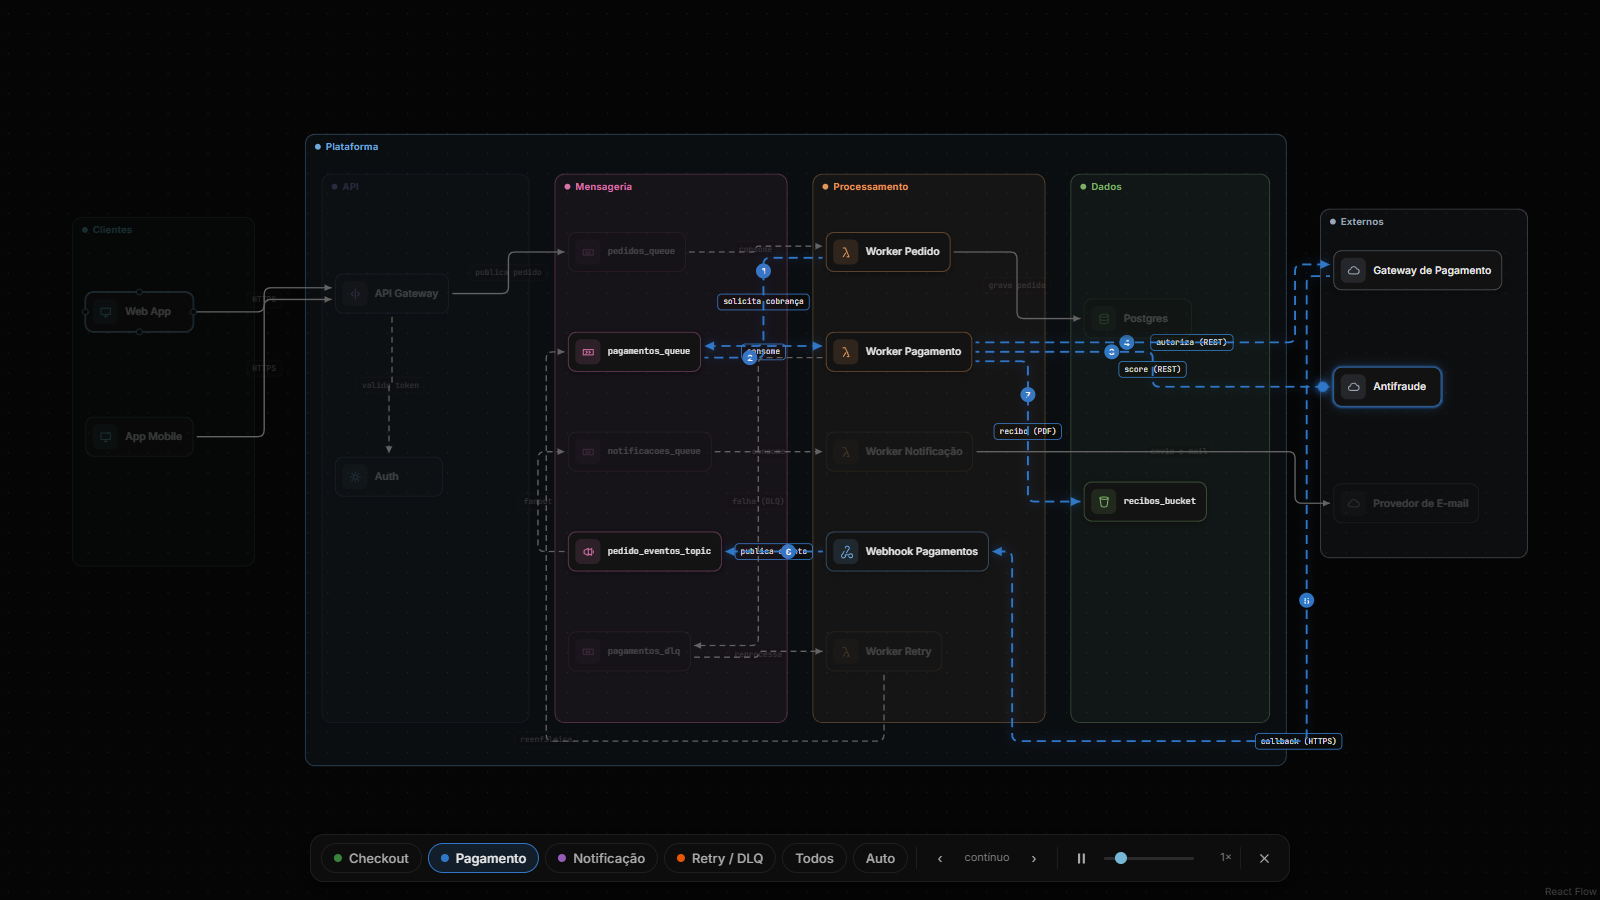
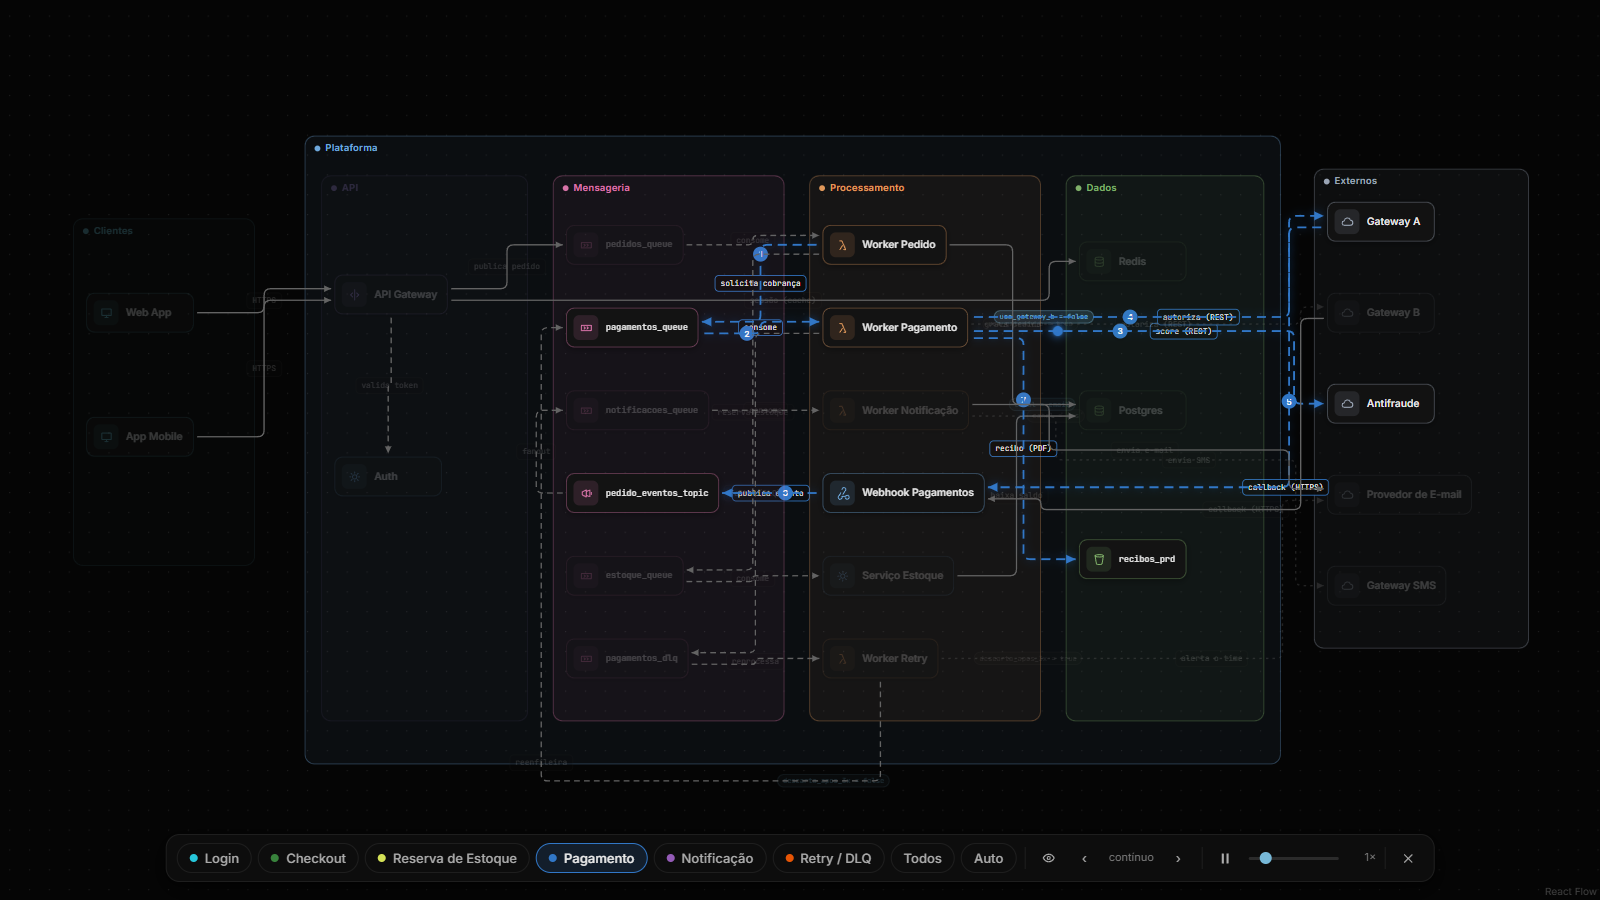
Exemplo enriquecido: 6 fluxos, 3 decisões por config e 4 cenários
Plataforma de Pedidos agora demonstra todos os recursos de fábrica:

- Novos nós: Redis (cache de sessão, hop com peso 0.5), Serviço Estoque +
  estoque_queue, Gateway SMS
- Novos fluxos: Login (com cache rápido) e Reserva de Estoque
- Três decisões por config: Pagamento (Gateway A/B por flag buscada do
  Postgres), Notificação (e-mail/SMS por enum local — demonstra condição
  de texto) e Retry (reenfileira/descarta+alerta)
- 4 cenários prontos: Padrão, Contingência (Gateway A fora), Notificação
  por SMS e Black Friday (troca variáveis, canal e política de DLQ)
- Rótulo interpolado no canvas: bucket recibos_{{ambiente}}
- Mais notas de hop, transformações, payloads antes/depois e fichas
  técnicas para o Inspetor de Pacote

Verificado por amostragem: zero arestas cruzando nós; variantes trocam ao
aplicar cenários; cascata do Web App cobre 22 arestas em 12 fases com
consulta de config. Regressões completas verdes. Storage key → v6.

diff --git a/src/model/seed.ts b/src/model/seed.ts
@@ -3,12 +3,14 @@ import type { Doc } from './yaml'
 /**
  * Diagrama de exemplo — fictício, só para demonstrar a ferramenta.
  *
- * Uma plataforma de pedidos genérica: clientes entram pela API, os pedidos
- * viram mensagens, workers processam e falam com serviços externos. Exercita
- * tudo que o ArchFlow faz: raias aninhadas, dobras manuais, fluxos animados,
- * modo automático (clique num nó para disparar o evento), config de nó com
- * arestas condicionais (Worker Pagamento decide o gateway por flag "buscada"
- * do Postgres), variáveis {{interpoladas}}, inspetor de pacote e cenários.
+ * Uma plataforma de pedidos genérica que exercita TODOS os recursos:
+ * - raias aninhadas, dobras manuais, pesos de aresta (Redis rápido, antifraude lento)
+ * - fluxos com VARIANTES por condição: Pagamento (gateway A/B por flag buscada do
+ *   Postgres), Notificação (e-mail/SMS por enum local), Retry (reenfileira/descarta)
+ * - variáveis {{interpoladas}} em rótulos e payloads (ex.: recibos_{{ambiente}})
+ * - inspetor de pacote (transformações, payload antes/depois, notas de hop)
+ * - cenários prontos, incluindo falha (Gateway A fora) e Black Friday
+ * - modo automático: clicar no Web App cascateia o sistema inteiro
  */
 export function seedDoc(): Doc {
   return {
@@ -17,6 +19,7 @@ export function seedDoc(): Doc {
     variables: {
       pedido: '#1042',
       ambiente: 'prd',
+      cliente: 'ACME Ltda',
     },
     groups: [
       { id: 'g_clientes', label: 'Clientes', color: '#5fb8c9', pos: { x: 40, y: 160 }, size: { w: 220, h: 420 } },
@@ -25,11 +28,11 @@ export function seedDoc(): Doc {
       { id: 'g_msg', label: 'Mensageria', color: '#d873a8', parent: 'g_plataforma', pos: { x: 300, y: 48 }, size: { w: 280, h: 660 } },
       { id: 'g_proc', label: 'Processamento', color: '#e0985a', parent: 'g_plataforma', pos: { x: 610, y: 48 }, size: { w: 280, h: 660 } },
       { id: 'g_dados', label: 'Dados', color: '#7fb069', parent: 'g_plataforma', pos: { x: 920, y: 48 }, size: { w: 240, h: 660 } },
-      { id: 'g_externos', label: 'Externos', color: '#9aa5b5', pos: { x: 1540, y: 100 }, size: { w: 260, h: 560 } },
+      { id: 'g_externos', label: 'Externos', color: '#9aa5b5', pos: { x: 1540, y: 100 }, size: { w: 260, h: 580 } },
     ],
     nodes: [
       { id: 'web_app', label: 'Web App', type: 'client', group: 'g_clientes', pos: { x: 16, y: 90 }, tech: 'React + Vite', owner: 'time web' },
-      { id: 'mobile_app', label: 'App Mobile', type: 'client', group: 'g_clientes', pos: { x: 16, y: 240 } },
+      { id: 'mobile_app', label: 'App Mobile', type: 'client', group: 'g_clientes', pos: { x: 16, y: 240 }, tech: 'React Native' },
 
       {
         id: 'api_gw',
@@ -39,107 +42,157 @@ export function seedDoc(): Doc {
         pos: { x: 16, y: 120 },
         transform: 'Autentica, valida o schema e publica o pedido na fila',
         payloadBefore: 'POST /pedidos\n{"itens": 3, "total": 189.90}',
-        payloadAfter: '{"pedido": "{{pedido}}", "itens": 3,\n "total": 189.90, "ts": "…"}',
+        payloadAfter: '{"pedido": "{{pedido}}", "cliente": "{{cliente}}",\n "itens": 3, "total": 189.90, "ts": "…"}',
         tech: 'Kong',
         owner: 'plataforma',
       },
-      { id: 'auth', label: 'Auth', type: 'service', group: 'g_api', pos: { x: 16, y: 340 }, transform: 'Valida o token JWT e devolve os escopos' },
+      {
+        id: 'auth',
+        label: 'Auth',
+        type: 'service',
+        group: 'g_api',
+        pos: { x: 16, y: 340 },
+        transform: 'Valida o token JWT e devolve os escopos',
+        tech: 'Keycloak',
+      },
 
-      { id: 'q_pedidos', label: 'pedidos_queue', type: 'queue', icon: 'sqs', group: 'g_msg', pos: { x: 16, y: 70 } },
-      { id: 'q_pagamentos', label: 'pagamentos_queue', type: 'queue', icon: 'sqs', group: 'g_msg', pos: { x: 16, y: 190 } },
-      { id: 'q_notificacoes', label: 'notificacoes_queue', type: 'queue', icon: 'sqs', group: 'g_msg', pos: { x: 16, y: 310 } },
-      { id: 'topic_eventos', label: 'pedido_eventos_topic', type: 'queue', icon: 'sns', group: 'g_msg', pos: { x: 16, y: 430 } },
-      { id: 'q_dlq', label: 'pagamentos_dlq', type: 'queue', icon: 'sqs', group: 'g_msg', pos: { x: 16, y: 550 } },
+      { id: 'q_pedidos', label: 'pedidos_queue', type: 'queue', icon: 'sqs', group: 'g_msg', pos: { x: 16, y: 60 } },
+      { id: 'q_pagamentos', label: 'pagamentos_queue', type: 'queue', icon: 'sqs', group: 'g_msg', pos: { x: 16, y: 160 } },
+      { id: 'q_notificacoes', label: 'notificacoes_queue', type: 'queue', icon: 'sqs', group: 'g_msg', pos: { x: 16, y: 260 } },
+      { id: 'topic_eventos', label: 'pedido_eventos_topic', type: 'queue', icon: 'sns', group: 'g_msg', pos: { x: 16, y: 360 } },
+      { id: 'q_estoque', label: 'estoque_queue', type: 'queue', icon: 'sqs', group: 'g_msg', pos: { x: 16, y: 460 } },
+      { id: 'q_dlq', label: 'pagamentos_dlq', type: 'queue', icon: 'sqs', group: 'g_msg', pos: { x: 16, y: 560 } },
 
       {
         id: 'w_pedido',
         label: 'Worker Pedido',
         type: 'function',
         group: 'g_proc',
-        pos: { x: 16, y: 70 },
-        transform: 'Grava o pedido {{pedido}} e solicita a cobrança',
+        pos: { x: 16, y: 60 },
+        transform: 'Grava o pedido {{pedido}}, reserva estoque e solicita cobrança',
       },
       {
         id: 'w_pagamento',
         label: 'Worker Pagamento',
         type: 'function',
         group: 'g_proc',
-        pos: { x: 16, y: 190 },
-        transform: 'Consulta a config, escolhe o gateway e autoriza a cobrança',
+        pos: { x: 16, y: 160 },
+        transform: 'Consulta a config no Postgres, escolhe o gateway e autoriza',
         vars: { usa_gateway_b: { value: false, source: 'db' } },
         tech: 'Node 22',
         owner: 'time de pagamentos',
       },
-      { id: 'w_notificacao', label: 'Worker Notificação', type: 'function', group: 'g_proc', pos: { x: 16, y: 310 }, transform: 'Monta o e-mail de confirmação do pedido {{pedido}}' },
-      { id: 'webhook', label: 'Webhook Pagamentos', type: 'service', icon: 'webhook', group: 'g_proc', pos: { x: 16, y: 430 }, transform: 'Recebe o callback do gateway e publica o evento' },
-      { id: 'w_retry', label: 'Worker Retry', type: 'function', group: 'g_proc', pos: { x: 16, y: 550 }, transform: 'Reprocessa cobranças que falharam' },
+      {
+        id: 'w_notificacao',
+        label: 'Worker Notificação',
+        type: 'function',
+        group: 'g_proc',
+        pos: { x: 16, y: 260 },
+        transform: 'Monta a mensagem do pedido {{pedido}} e envia pelo canal configurado',
+        vars: { canal: { value: 'email' } },
+        payloadBefore: '{"evento": "pagamento_aprovado",\n "pedido": "{{pedido}}"}',
+        payloadAfter: '{"para": "{{cliente}}", "canal": "email|sms",\n "template": "pedido_confirmado"}',
+      },
+      {
+        id: 'webhook',
+        label: 'Webhook Pagamentos',
+        type: 'service',
+        icon: 'webhook',
+        group: 'g_proc',
+        pos: { x: 16, y: 360 },
+        transform: 'Recebe o callback do gateway e publica o evento',
+      },
+      {
+        id: 'svc_estoque',
+        label: 'Serviço Estoque',
+        type: 'service',
+        group: 'g_proc',
+        pos: { x: 16, y: 460 },
+        transform: 'Reserva os itens e dá baixa no saldo',
+        owner: 'time de logística',
+      },
+      {
+        id: 'w_retry',
+        label: 'Worker Retry',
+        type: 'function',
+        group: 'g_proc',
+        pos: { x: 16, y: 560 },
+        transform: 'Decide entre reenfileirar a cobrança ou descartar e alertar',
+        vars: { descarta_apos_3x: { value: false } },
+      },
 
-      { id: 'db', label: 'Postgres', type: 'storage', group: 'g_dados', pos: { x: 16, y: 150 }, tech: 'RDS', transform: 'Guarda pedidos e a config de pagamentos' },
-      { id: 'bucket', label: 'recibos_bucket', type: 'storage', icon: 's3', group: 'g_dados', pos: { x: 16, y: 370 } },
+      { id: 'redis', label: 'Redis', type: 'storage', group: 'g_dados', pos: { x: 16, y: 80 }, tech: 'ElastiCache', transform: 'Cache de sessões e catálogo' },
+      { id: 'db', label: 'Postgres', type: 'storage', group: 'g_dados', pos: { x: 16, y: 260 }, tech: 'RDS', transform: 'Pedidos, estoque e a config de pagamentos' },
+      { id: 'bucket', label: 'recibos_{{ambiente}}', type: 'storage', icon: 's3', group: 'g_dados', pos: { x: 16, y: 440 } },
 
-      { id: 'pay_gateway', label: 'Gateway A', type: 'external', group: 'g_externos', pos: { x: 16, y: 50 }, tech: 'REST' },
-      { id: 'pay_gateway_b', label: 'Gateway B', type: 'external', group: 'g_externos', pos: { x: 16, y: 170 }, tech: 'REST' },
-      { id: 'antifraude', label: 'Antifraude', type: 'external', group: 'g_externos', pos: { x: 16, y: 290 } },
-      { id: 'email', label: 'Provedor de E-mail', type: 'external', group: 'g_externos', pos: { x: 16, y: 410 } },
+      { id: 'pay_gateway', label: 'Gateway A', type: 'external', group: 'g_externos', pos: { x: 16, y: 40 }, tech: 'REST' },
+      { id: 'pay_gateway_b', label: 'Gateway B', type: 'external', group: 'g_externos', pos: { x: 16, y: 150 }, tech: 'REST' },
+      { id: 'antifraude', label: 'Antifraude', type: 'external', group: 'g_externos', pos: { x: 16, y: 260 } },
+      { id: 'email', label: 'Provedor de E-mail', type: 'external', group: 'g_externos', pos: { x: 16, y: 370 } },
+      { id: 'sms', label: 'Gateway SMS', type: 'external', group: 'g_externos', pos: { x: 16, y: 480 } },
     ],
     edges: [
-      // entrada
+      // entrada e sessão
       { id: 'e_web', from: 'web_app', to: 'api_gw', fromSide: 'r', toSide: 'l', label: 'HTTPS' },
       { id: 'e_mob', from: 'mobile_app', to: 'api_gw', fromSide: 'r', toSide: 'l', label: 'HTTPS' },
       { id: 'e_auth', from: 'api_gw', to: 'auth', fromSide: 'b', toSide: 't', label: 'valida token', dashed: true, note: 'cache de 5 min por token' },
+      { id: 'e_redis', from: 'api_gw', to: 'redis', fromSide: 'r', toSide: 'l', label: 'sessão (cache)', weight: 0.5, note: 'p95 de 3ms — o hop mais rápido da casa', waypoints: [{ x: 1220, y: 254 }] },
 
       // pedido
-      { id: 'e_pub', from: 'api_gw', to: 'q_pedidos', fromSide: 'r', toSide: 'l', label: 'publica pedido' },
+      { id: 'e_pub', from: 'api_gw', to: 'q_pedidos', fromSide: 'r', toSide: 'l', label: 'publica pedido', note: 'idempotente por {{pedido}}' },
       { id: 'e_cons1', from: 'q_pedidos', to: 'w_pedido', fromSide: 'r', toSide: 'l', label: 'consome', dashed: true, note: 'long-polling 20s; lote de até 10' },
       { id: 'e_db', from: 'w_pedido', to: 'db', fromSide: 'r', toSide: 'l', label: 'grava pedido' },
 
-      // pagamento — o Worker Pagamento decide o gateway pela flag usa_gateway_b
+      // estoque
+      { id: 'e_estq_pub', from: 'w_pedido', to: 'q_estoque', fromSide: 'l', toSide: 'r', label: 'reserva estoque', dashed: true },
+      { id: 'e_estq_cons', from: 'q_estoque', to: 'svc_estoque', fromSide: 'r', toSide: 'l', label: 'consome', dashed: true },
+      { id: 'e_estq_db', from: 'svc_estoque', to: 'db', fromSide: 'r', toSide: 'l', label: 'baixa saldo' },
+
+      // pagamento — variantes A/B pela flag buscada do Postgres
       { id: 'e_pag', from: 'w_pedido', to: 'q_pagamentos', fromSide: 'l', toSide: 'r', label: 'solicita cobrança', dashed: true },
       { id: 'e_cons2', from: 'q_pagamentos', to: 'w_pagamento', fromSide: 'r', toSide: 'l', label: 'consome', dashed: true },
-      { id: 'e_fraude', from: 'w_pagamento', to: 'antifraude', fromSide: 'r', toSide: 'l', label: 'score (REST)', weight: 2, note: 'p95 de 800ms — o hop mais lento do fluxo' },
-      {
-        id: 'e_pay',
-        from: 'w_pagamento',
-        to: 'pay_gateway',
-        fromSide: 'r',
-        toSide: 'l',
-        label: 'autoriza (REST)',
-        waypoints: [{ x: 1510, y: 322 }],
-        when: { var: 'usa_gateway_b', equals: false },
-      },
-      {
-        id: 'e_pay_b',
-        from: 'w_pagamento',
-        to: 'pay_gateway_b',
-        fromSide: 'r',
-        toSide: 'l',
-        label: 'autoriza (REST)',
-        waypoints: [{ x: 1524, y: 372 }],
-        when: { var: 'usa_gateway_b', equals: true },
-      },
+      { id: 'e_fraude', from: 'w_pagamento', to: 'antifraude', fromSide: 'r', toSide: 'l', label: 'score (REST)', weight: 2, note: 'p95 de 800ms — o hop mais lento do fluxo', waypoints: [{ x: 1516, y: 294 }] },
+      { id: 'e_pay', from: 'w_pagamento', to: 'pay_gateway', fromSide: 'r', toSide: 'l', label: 'autoriza (REST)', waypoints: [{ x: 1510, y: 294 }], when: { var: 'usa_gateway_b', equals: false } },
+      { id: 'e_pay_b', from: 'w_pagamento', to: 'pay_gateway_b', fromSide: 'r', toSide: 'l', label: 'autoriza (REST)', waypoints: [{ x: 1524, y: 294 }], when: { var: 'usa_gateway_b', equals: true } },
       { id: 'e_recibo', from: 'w_pagamento', to: 'bucket', fromSide: 'r', toSide: 'l', label: 'recibo (PDF)' },
-      // volta dos gateways pelo corredor entre as raias, por baixo do diagrama
-      { id: 'e_callback', from: 'pay_gateway', to: 'webhook', fromSide: 'l', toSide: 'r', label: 'callback (HTTPS)', waypoints: [{ x: 1524, y: 790 }, { x: 1170, y: 790 }] },
-      { id: 'e_callback_b', from: 'pay_gateway_b', to: 'webhook', fromSide: 'l', toSide: 'r', label: 'callback (HTTPS)', waypoints: [{ x: 1512, y: 810 }, { x: 1178, y: 810 }] },
+      // callbacks voltam pelo corredor entre Plataforma e Externos
+      { id: 'e_callback', from: 'pay_gateway', to: 'webhook', fromSide: 'l', toSide: 'r', label: 'callback (HTTPS)', weight: 1.5, waypoints: [{ x: 1510, y: 494 }] },
+      { id: 'e_callback_b', from: 'pay_gateway_b', to: 'webhook', fromSide: 'l', toSide: 'r', label: 'callback (HTTPS)', weight: 1.5, waypoints: [{ x: 1524, y: 512 }, { x: 1210, y: 512 }] },
       { id: 'e_evt', from: 'webhook', to: 'topic_eventos', fromSide: 'l', toSide: 'r', label: 'publica evento' },
 
-      // notificação
-      { id: 'e_fanout', from: 'topic_eventos', to: 'q_notificacoes', fromSide: 'l', toSide: 'l', label: 'fanout', dashed: true, waypoints: [{ x: 600, y: 562 }, { x: 600, y: 442 }] },
+      // notificação — variantes e-mail/SMS pelo canal configurado no worker
+      { id: 'e_fanout', from: 'topic_eventos', to: 'q_notificacoes', fromSide: 'l', toSide: 'l', label: 'fanout', dashed: true, note: 'SNS → SQS; entrega pelo menos uma vez', waypoints: [{ x: 600, y: 444 }] },
       { id: 'e_cons3', from: 'q_notificacoes', to: 'w_notificacao', fromSide: 'r', toSide: 'l', label: 'consome', dashed: true },
-      { id: 'e_email', from: 'w_notificacao', to: 'email', fromSide: 'r', toSide: 'l', label: 'envia e-mail', waypoints: [{ x: 1510, y: 442 }] },
+      { id: 'e_email', from: 'w_notificacao', to: 'email', fromSide: 'r', toSide: 'l', label: 'envia e-mail', when: { var: 'canal', equals: 'email' }, waypoints: [{ x: 1220, y: 440 }, { x: 1510, y: 440 }] },
+      { id: 'e_sms', from: 'w_notificacao', to: 'sms', fromSide: 'r', toSide: 'l', label: 'envia SMS', when: { var: 'canal', equals: 'sms' }, waypoints: [{ x: 1228, y: 452 }, { x: 1518, y: 452 }] },
 
-      // falha e reprocesso
+      // falha e reprocesso — variantes reenfileira/descarta
       { id: 'e_dlq', from: 'w_pagamento', to: 'q_dlq', fromSide: 'l', toSide: 'r', label: 'falha (DLQ)', dashed: true },
-      { id: 'e_retry', from: 'q_dlq', to: 'w_retry', fromSide: 'r', toSide: 'l', label: 'reprocessa', dashed: true },
-      { id: 'e_requeue', from: 'w_retry', to: 'q_pagamentos', fromSide: 'b', toSide: 'l', label: 'reenfileira', dashed: true, waypoints: [{ x: 1017, y: 790 }, { x: 610, y: 790 }, { x: 610, y: 322 }] },
+      { id: 'e_retry', from: 'q_dlq', to: 'w_retry', fromSide: 'r', toSide: 'l', label: 'reprocessa', dashed: true, note: 'backoff exponencial; máx. 3 tentativas' },
+      { id: 'e_requeue', from: 'w_retry', to: 'q_pagamentos', fromSide: 'b', toSide: 'l', label: 'reenfileira', dashed: true, when: { var: 'descarta_apos_3x', equals: false }, waypoints: [{ x: 1006, y: 840 }, { x: 606, y: 840 }, { x: 606, y: 294 }] },
+      { id: 'e_alerta', from: 'w_retry', to: 'email', fromSide: 'r', toSide: 'l', label: 'alerta o time', when: { var: 'descarta_apos_3x', equals: true }, waypoints: [{ x: 1502, y: 694 }] },
     ],
     flows: [
+      {
+        id: 'f_login',
+        name: 'Login',
+        color: '#26c6da',
+        edges: ['e_web', 'e_auth', 'e_redis'],
+        payload: '{"cliente": "{{cliente}}", "escopos": ["pedidos:rw"]}',
+      },
       {
         id: 'f_checkout',
         name: 'Checkout',
         color: '#2e7d32',
         edges: ['e_web', 'e_auth', 'e_pub', 'e_cons1', 'e_db'],
-        payload: '{"pedido": "{{pedido}}", "itens": 3,\n "total": 189.90, "ambiente": "{{ambiente}}"}',
+        payload: '{"pedido": "{{pedido}}", "cliente": "{{cliente}}",\n "itens": 3, "total": 189.90}',
+      },
+      {
+        id: 'f_estoque',
+        name: 'Reserva de Estoque',
+        color: '#d4e157',
+        edges: ['e_estq_pub', 'e_estq_cons', 'e_estq_db'],
+        payload: '{"pedido": "{{pedido}}", "itens": [{"sku": "AB-12", "qtd": 2}]}',
       },
       {
         // carrega os DOIS ramos (A e B): a config escolhe qual variante flui
@@ -149,23 +202,66 @@ export function seedDoc(): Doc {
         edges: ['e_pag', 'e_cons2', 'e_fraude', 'e_pay', 'e_pay_b', 'e_callback', 'e_callback_b', 'e_evt', 'e_recibo'],
         payload: '{"pedido": "{{pedido}}", "valor": 189.90,\n "moeda": "BRL"}',
       },
-      { id: 'f_notificacao', name: 'Notificação', color: '#6a1b9a', edges: ['e_fanout', 'e_cons3', 'e_email'] },
-      { id: 'f_retry', name: 'Retry / DLQ', color: '#e65100', edges: ['e_dlq', 'e_retry', 'e_requeue'] },
+      {
+        // variantes e-mail/SMS pelo canal do Worker Notificação
+        id: 'f_notificacao',
+        name: 'Notificação',
+        color: '#6a1b9a',
+        edges: ['e_fanout', 'e_cons3', 'e_email', 'e_sms'],
+        payload: '{"pedido": "{{pedido}}", "para": "{{cliente}}"}',
+      },
+      {
+        // variantes reenfileira/descarta pela flag do Worker Retry
+        id: 'f_retry',
+        name: 'Retry / DLQ',
+        color: '#e65100',
+        edges: ['e_dlq', 'e_retry', 'e_requeue', 'e_alerta'],
+      },
     ],
     scenarios: [
       {
         id: 'sc_padrao',
-        name: 'Padrão (Gateway A)',
-        variables: { pedido: '#1042', ambiente: 'prd' },
-        nodeVars: { w_pagamento: { usa_gateway_b: false } },
+        name: 'Padrão (A · e-mail · reenfileira)',
+        variables: { pedido: '#1042', ambiente: 'prd', cliente: 'ACME Ltda' },
+        nodeVars: {
+          w_pagamento: { usa_gateway_b: false },
+          w_notificacao: { canal: 'email' },
+          w_retry: { descarta_apos_3x: false },
+        },
         down: [],
       },
       {
         id: 'sc_contingencia',
         name: 'Contingência — Gateway A fora',
-        variables: { pedido: '#1042', ambiente: 'prd' },
-        nodeVars: { w_pagamento: { usa_gateway_b: true } },
+        variables: { pedido: '#1042', ambiente: 'prd', cliente: 'ACME Ltda' },
+        nodeVars: {
+          w_pagamento: { usa_gateway_b: true },
+          w_notificacao: { canal: 'email' },
+          w_retry: { descarta_apos_3x: false },
+        },
         down: ['pay_gateway'],
+      },
+      {
+        id: 'sc_sms',
+        name: 'Notificação por SMS',
+        variables: { pedido: '#1042', ambiente: 'prd', cliente: 'ACME Ltda' },
+        nodeVars: {
+          w_pagamento: { usa_gateway_b: false },
+          w_notificacao: { canal: 'sms' },
+          w_retry: { descarta_apos_3x: false },
+        },
+        down: [],
+      },
+      {
+        id: 'sc_blackfriday',
+        name: 'Black Friday (SMS · descarta na DLQ)',
+        variables: { pedido: '#9999', ambiente: 'black-friday', cliente: 'ACME Ltda' },
+        nodeVars: {
+          w_pagamento: { usa_gateway_b: false },
+          w_notificacao: { canal: 'sms' },
+          w_retry: { descarta_apos_3x: true },
+        },
+        down: [],
       },
     ],
   }

diff --git a/src/store/store.ts b/src/store/store.ts
@@ -33,8 +33,8 @@ export const ALL_FLOWS = '__all__'
 export const ALL_AUTO = '__auto__'
 // Bumpar a versão da chave quando o diagrama de exemplo mudar: faz o app abrir
 // com o exemplo novo sem apagar o documento salvo anteriormente.
-const STORAGE_KEY = 'archflow.doc.v5'
-const HISTORY_KEY = 'archflow.history.v5'
+const STORAGE_KEY = 'archflow.doc.v6'
+const HISTORY_KEY = 'archflow.history.v6'
 
 interface Guides {
   x?: number

diff --git a/README.md b/README.md
@@ -61,13 +61,20 @@ exemplo".
 ![Editor com o diagrama de exemplo](docs/screenshots/editor.png)
 
 **Plataforma de Pedidos** é uma arquitetura fictícia, feita só para exercitar a ferramenta: dois
-clientes entram por um API Gateway, os pedidos viram mensagens em filas, workers processam,
-pagamentos vão a serviços externos e o que falha cai numa DLQ com reprocessamento. São 19 nós em
-7 raias aninhadas, 19 arestas (algumas com dobras manuais) e 4 fluxos prontos — Checkout,
-Pagamento, Notificação e Retry/DLQ.
+clientes entram por um API Gateway (com sessão em Redis), os pedidos viram mensagens em filas,
+workers processam, reservam estoque, pagamentos vão a gateways externos e o que falha cai numa
+DLQ com reprocessamento. São 24 nós em 7 raias aninhadas, 27 arestas e **6 fluxos prontos** —
+Login, Checkout, Reserva de Estoque, Pagamento, Notificação e Retry/DLQ.
+
+Três decisões por config para brincar: o Worker Pagamento escolhe **Gateway A ou B** por flag
+buscada do Postgres, o Worker Notificação escolhe **e-mail ou SMS** por um enum local, e o
+Worker Retry decide entre **reenfileirar ou descartar e alertar**. Os 4 cenários prontos
+(Padrão, Contingência com Gateway A fora, Notificação por SMS e Black Friday) trocam tudo de
+uma vez — inclusive as variáveis: o bucket `recibos_{{ambiente}}` vira `recibos_black-friday`.
 
 Como as setas seguem o sentido do dado, ele também é uma boa demonstração do **modo Automático**:
-clique no `Web App` e o evento cascateia por onze ondas até chegar no provedor de e-mail.
+clique no `Web App` e o evento cascateia por doze fases — com direito à consulta de config no
+Postgres — até os provedores externos.
 
 ![Modo automático: evento disparado por clique](docs/screenshots/modo-automatico.png)
 
